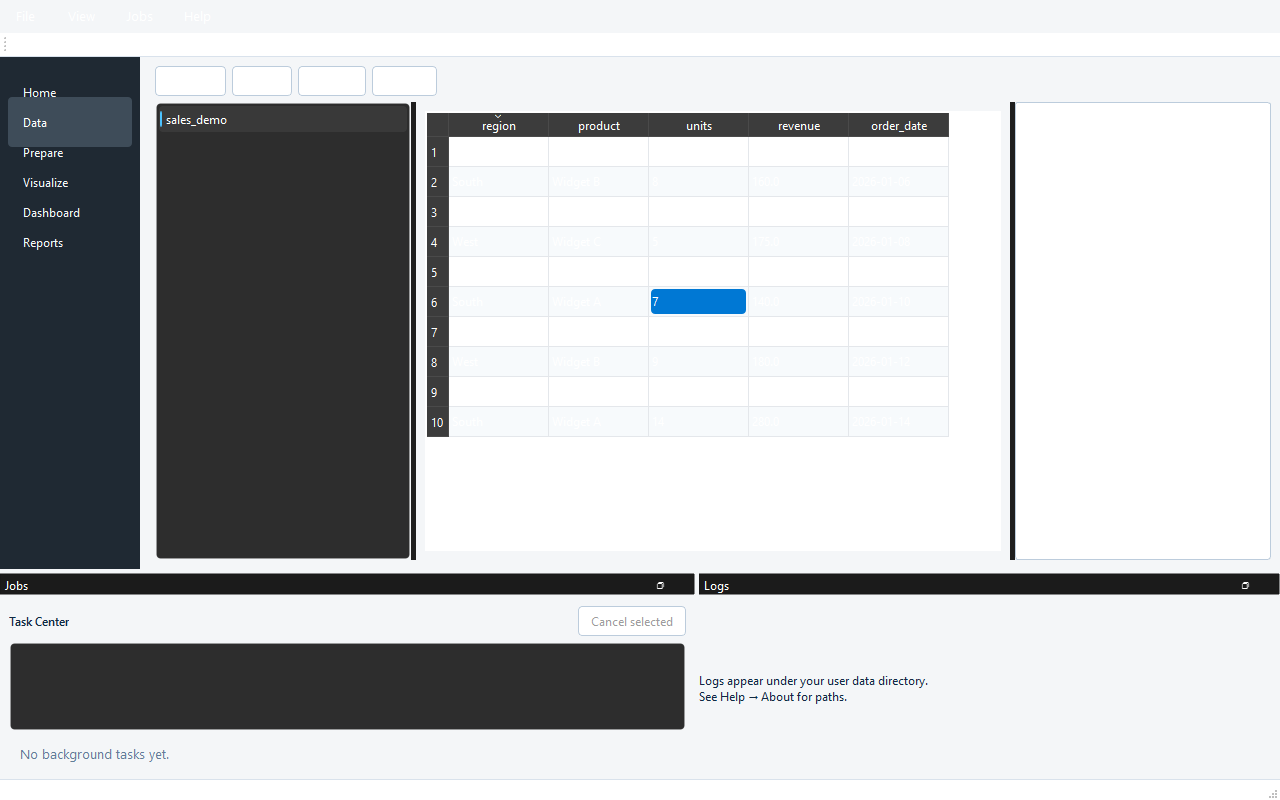
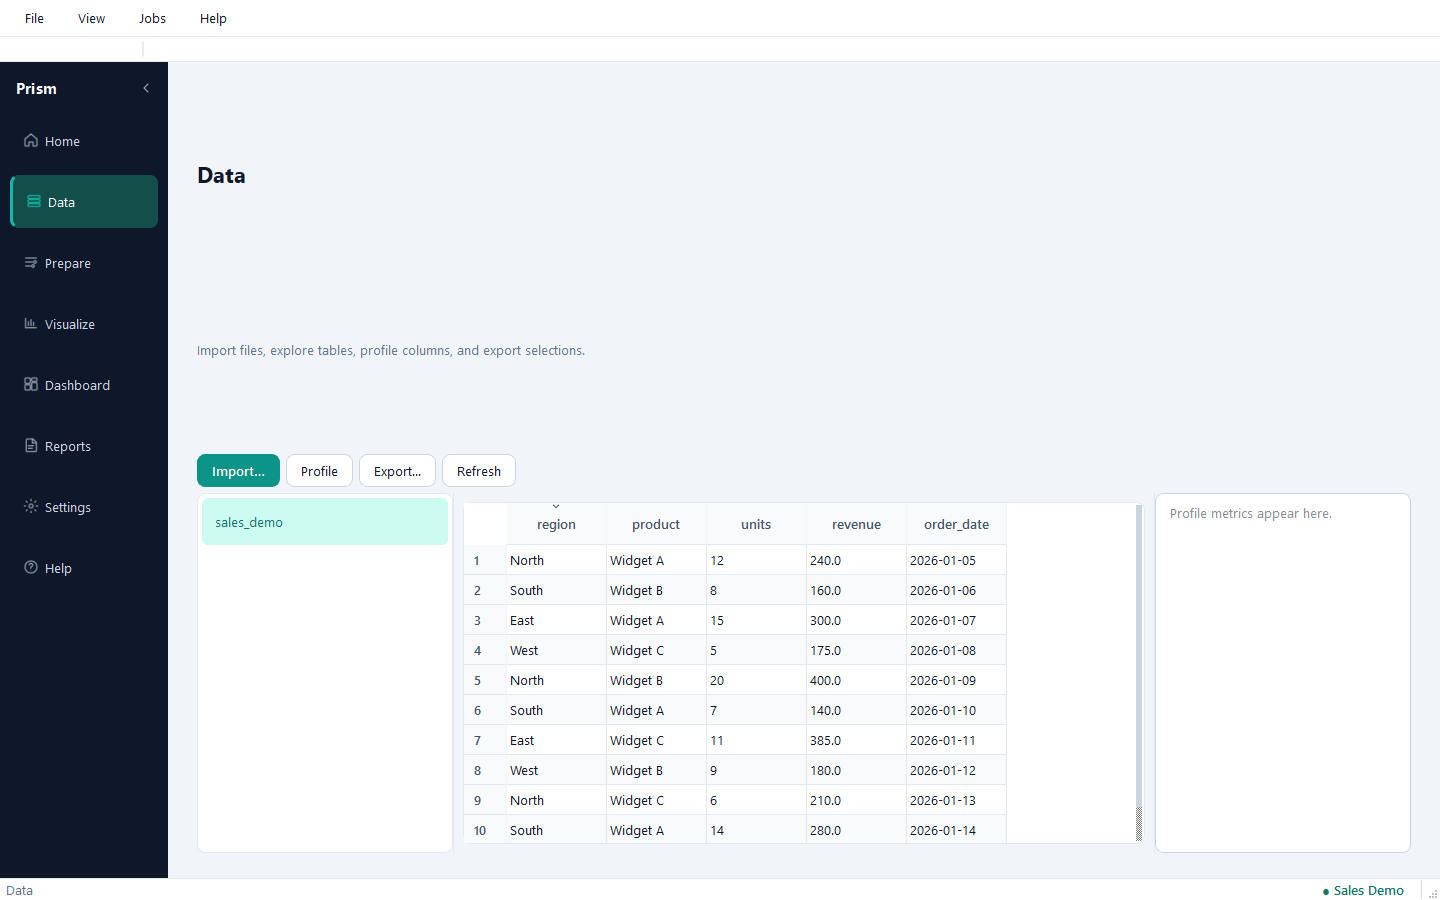
Update project screenshots

diff --git a/scripts/capture_screenshots.py b/scripts/capture_screenshots.py
@@ -8,13 +8,48 @@ from __future__ import annotations
 
 import os
 import sys
+import time
 from pathlib import Path
 
-from PySide6.QtWidgets import QApplication
+from PySide6.QtWidgets import QApplication, QDockWidget
 
 from prism_bi.application.use_cases.project_lifecycle import open_project
 from prism_bi.bootstrap.container import build_container
-from prism_bi.presentation.shell.main_window import MainWindow, _apply_stylesheet
+from prism_bi.presentation.shell.main_window import MainWindow
+from prism_bi.presentation.theme import ThemeMode, apply_theme
+
+
+def _pump(app: QApplication, ms: int = 200) -> None:
+    deadline = time.monotonic() + (ms / 1000.0)
+    while time.monotonic() < deadline:
+        app.processEvents()
+        time.sleep(0.02)
+
+
+def _hide_utility_docks(window: MainWindow) -> None:
+    for name in ("TaskCenterDock", "LogsDock"):
+        dock = window.findChild(QDockWidget, name)
+        if dock is not None:
+            dock.hide()
+
+
+def _prepare_visualize(window: MainWindow, app: QApplication) -> None:
+    view = getattr(window, "_visualize_view", None)
+    if view is None:
+        return
+    view.refresh()
+    _pump(app, 150)
+    if view._chart_list.count() > 0:  # noqa: SLF001
+        view._chart_list.setCurrentRow(0)  # noqa: SLF001
+        _pump(app, 400)
+
+
+def _prepare_data(window: MainWindow, app: QApplication) -> None:
+    view = getattr(window, "_data_view", None)
+    if view is None:
+        return
+    view.refresh()
+    _pump(app, 200)
 
 
 def main() -> int:
@@ -27,6 +62,9 @@ def main() -> int:
         os.environ["QT_QPA_PLATFORM"] = "windows"
 
     app = QApplication.instance() or QApplication(sys.argv)
+    # Docs shots use the light product theme for readability on GitHub.
+    apply_theme(app, ThemeMode.LIGHT)
+
     container = build_container(
         repo_root=root,
         user_data_dir=root / ".ga-capture-userdata",
@@ -34,7 +72,6 @@ def main() -> int:
         console_logging=False,
     )
     container.plugins.activate_pending()
-    _apply_stylesheet(app)
 
     sample = root / "samples" / "SalesDemo.prism"
     if sample.is_dir():
@@ -43,14 +80,29 @@ def main() -> int:
             print(f"WARN: could not open sample: {opened.message}")
 
     window = MainWindow(container)
-    window.resize(1280, 800)
+    window.resize(1440, 900)
     window.show()
-    app.processEvents()
+    _hide_utility_docks(window)
+    _pump(app, 300)
 
     modules = ("Home", "Data", "Prepare", "Visualize", "Dashboard", "Reports")
     for name in modules:
         window._select_module(name)  # noqa: SLF001
-        app.processEvents()
+        _hide_utility_docks(window)
+        _pump(app, 200)
+        if name == "Visualize":
+            _prepare_visualize(window, app)
+        elif name == "Data":
+            _prepare_data(window, app)
+        else:
+            view = getattr(window, f"_{name.lower()}_view", None)
+            refresh = getattr(view, "refresh", None)
+            if callable(refresh):
+                refresh()
+                _pump(app, 150)
+
+        # Let QtCharts finish layout/paint before grabbing.
+        _pump(app, 300)
         path = out / f"{name.lower()}.png"
         ok = window.grab().save(str(path), "PNG")
         size = path.stat().st_size if path.is_file() else 0
@@ -59,6 +111,7 @@ def main() -> int:
     container.plugins.deactivate_all()
     container.workspace.close()
     container.jobs.shutdown(wait=False)
+    window.close()
     return 0
 
 
